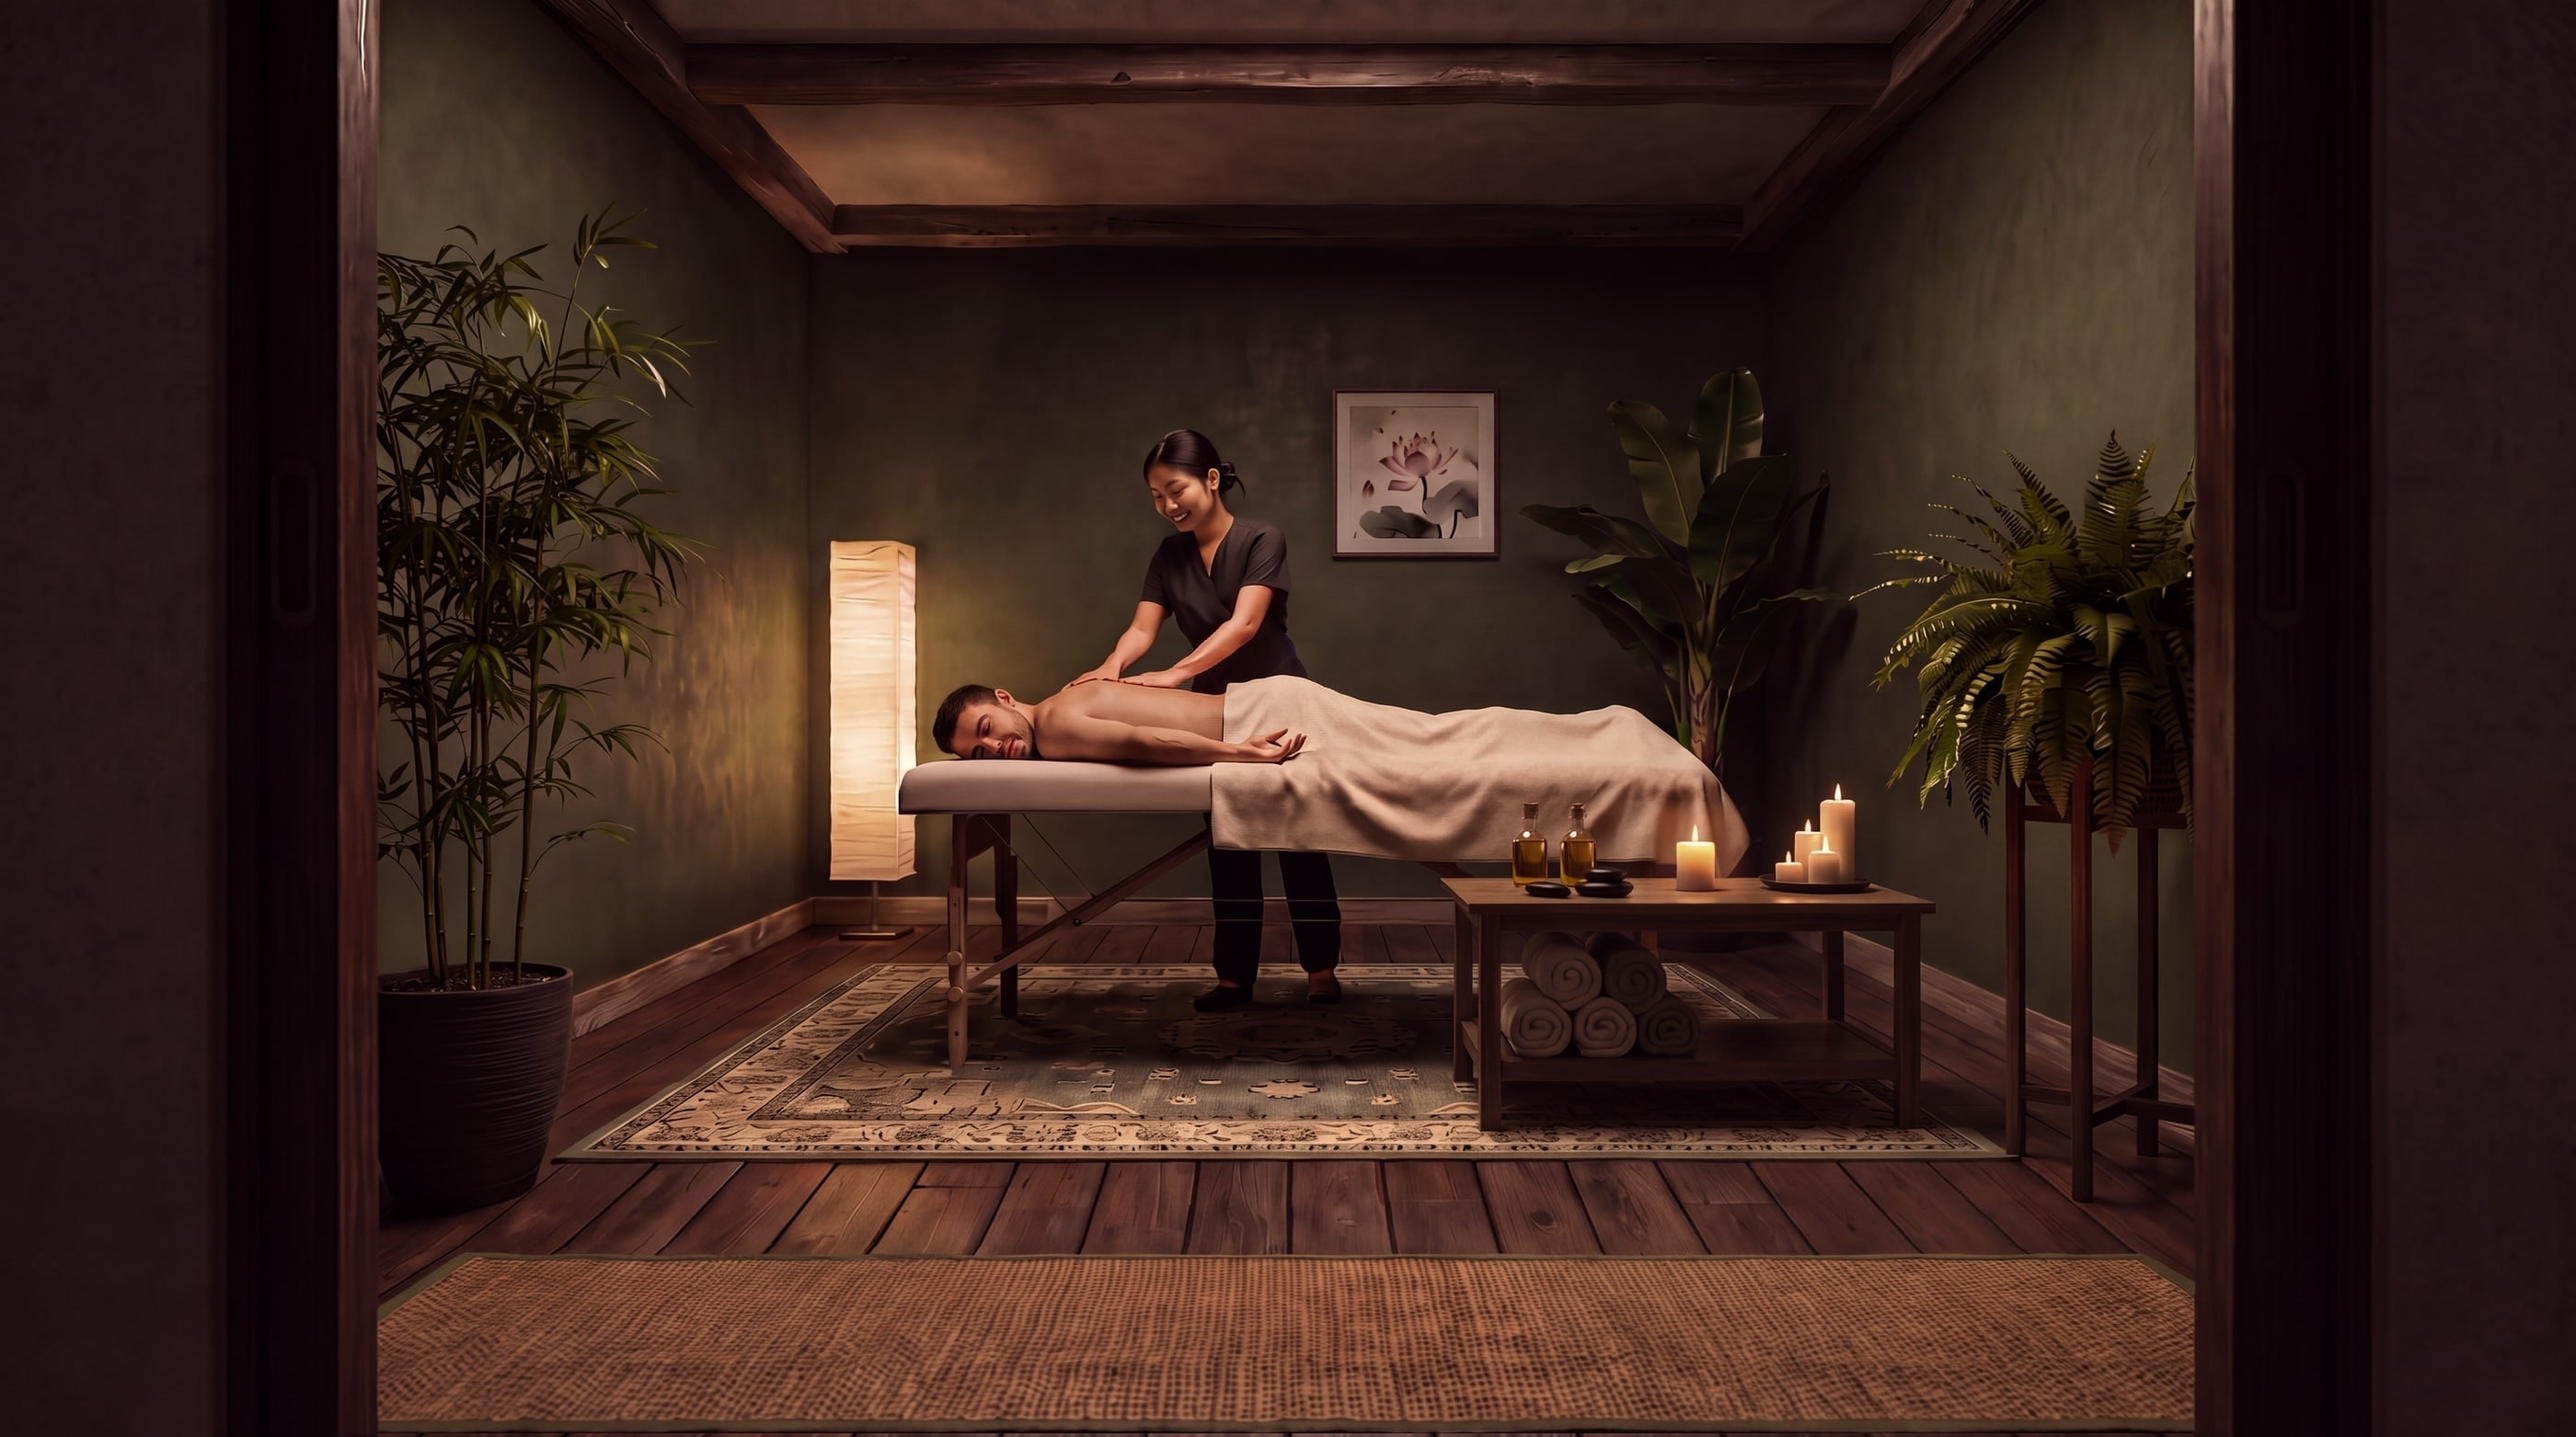
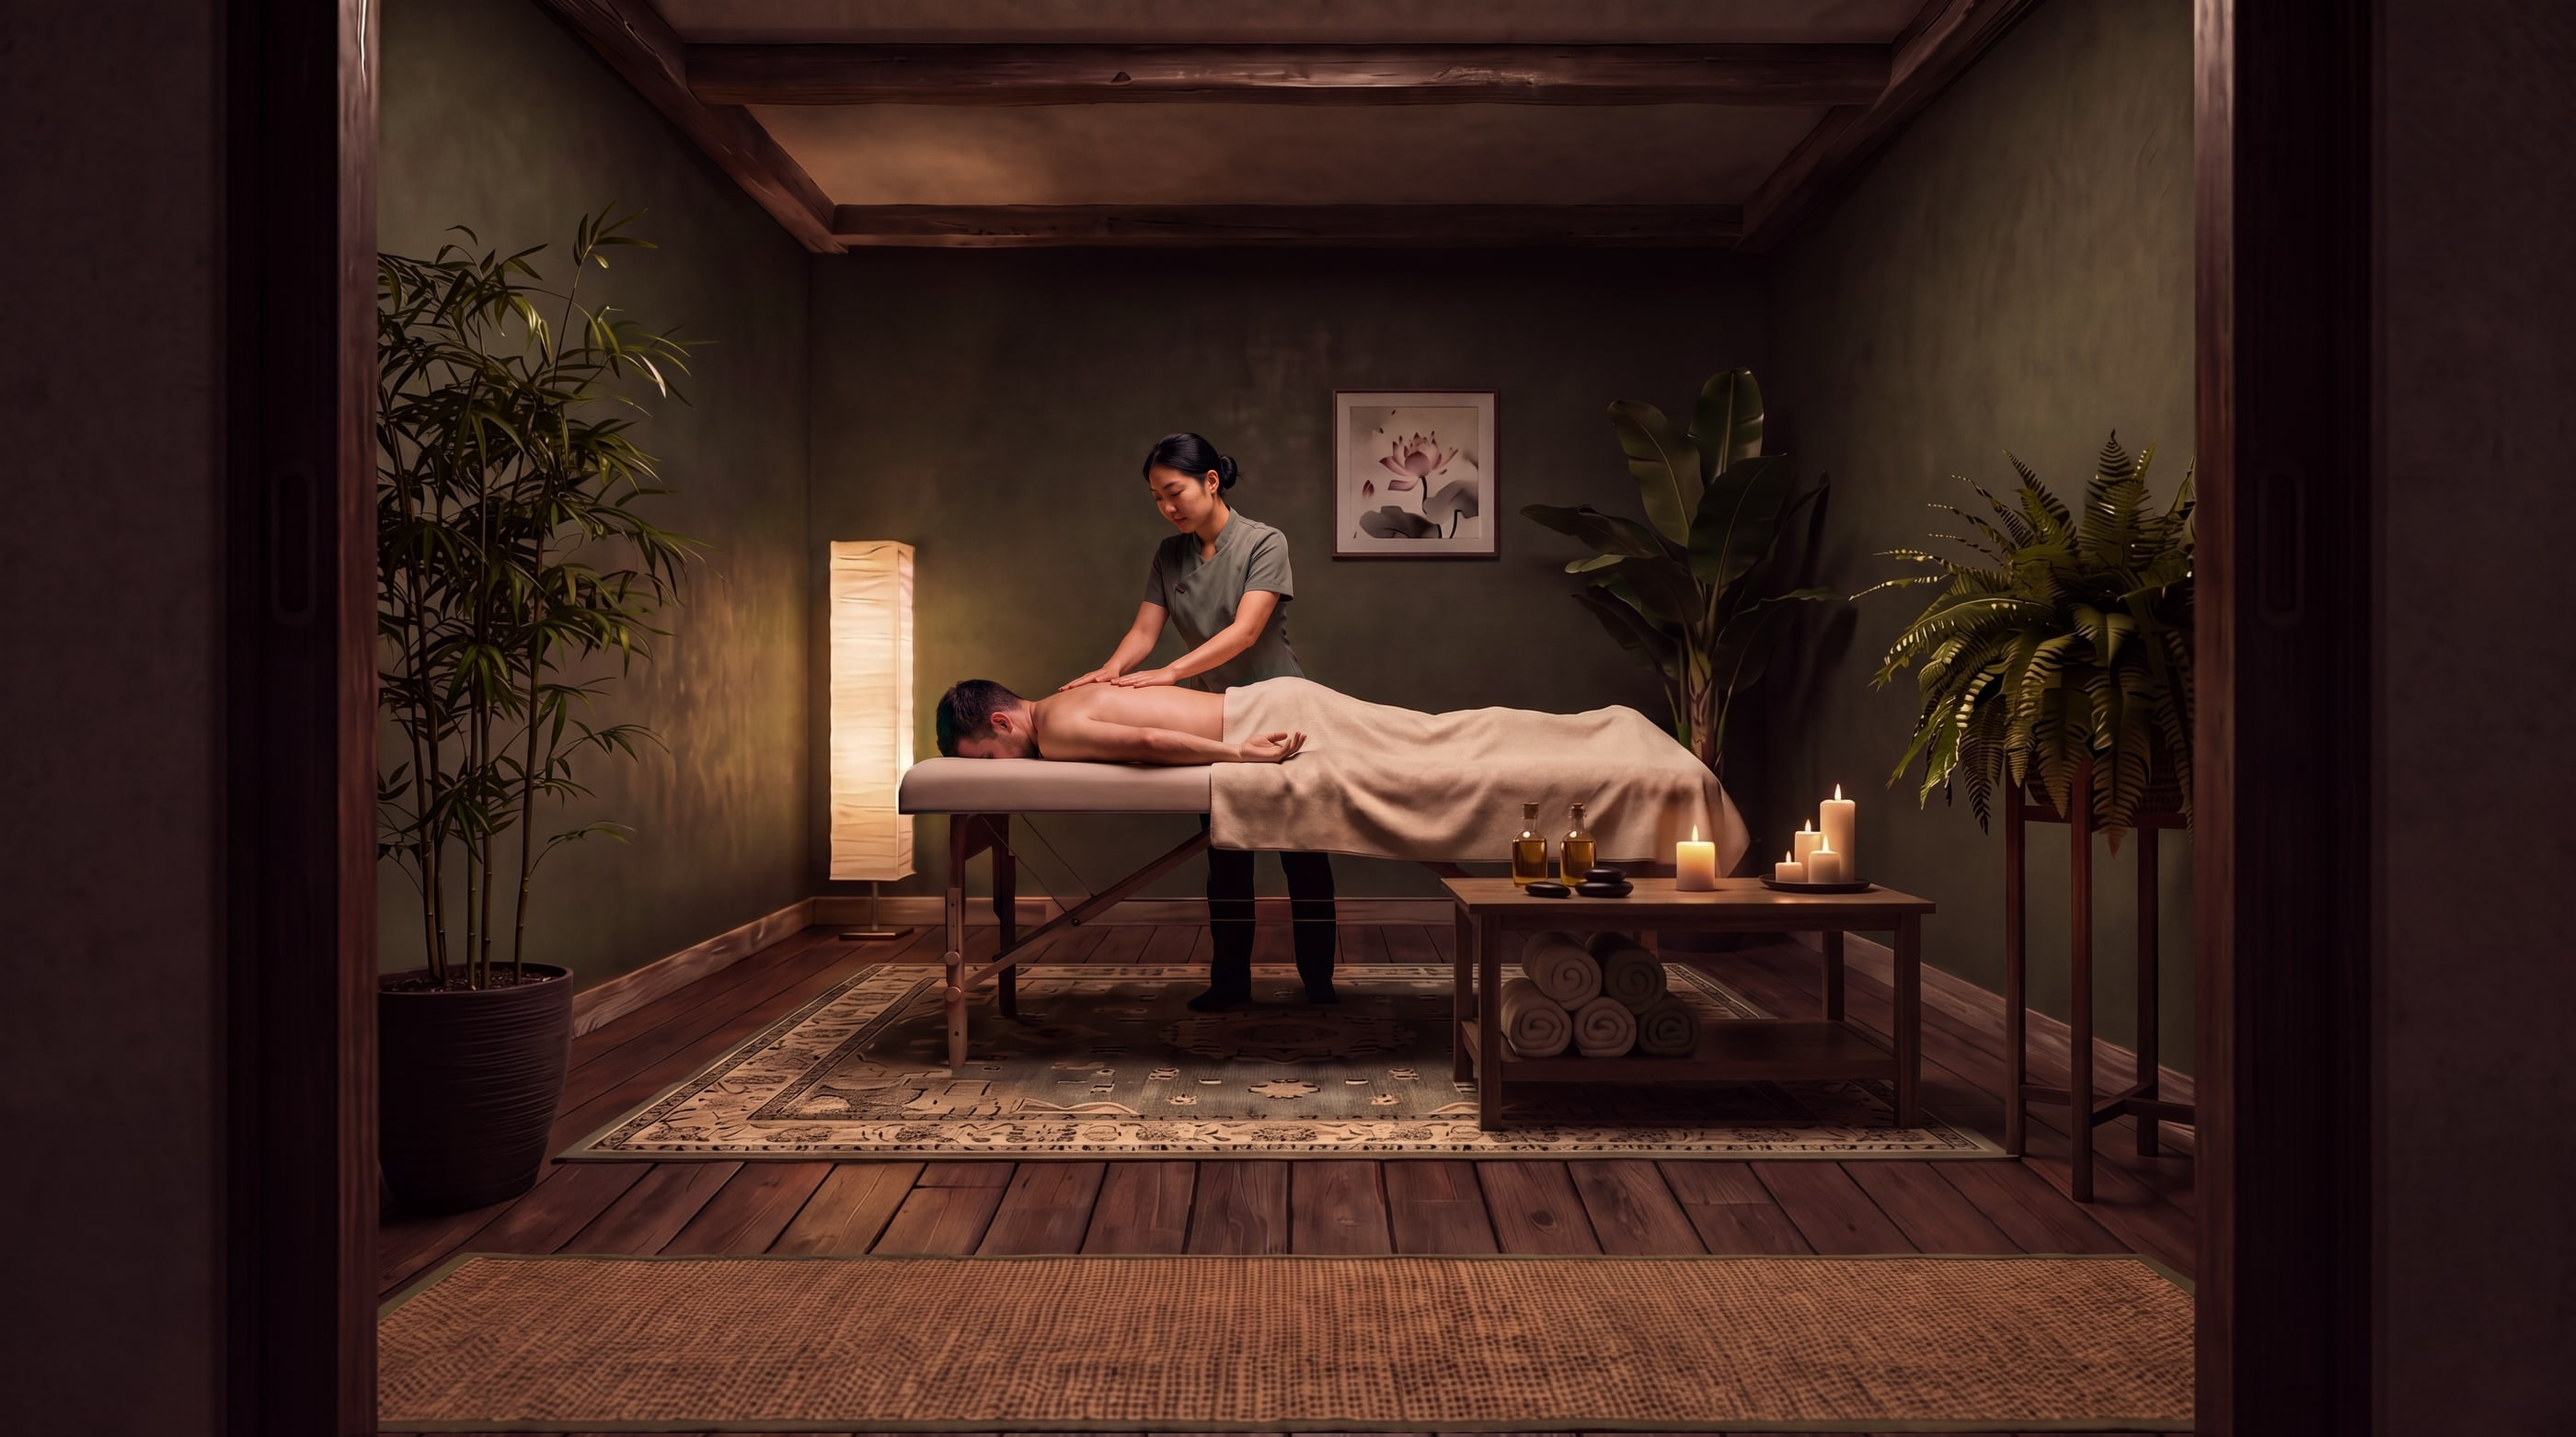
Doorway room: new, more natural therapist and client; room unchanged
Only the people were regenerated (from a crop) and blended back into the original
photo. The old version is kept in archive/photos.

diff --git a/docs/CREDITS.md b/docs/CREDITS.md
@@ -74,4 +74,4 @@ AI-generated tracks were excluded on purpose: a brand sound should be human-made
 | rain-lotus-pads.webp, rain-lotus-flower.webp (contact, formerly the rain pause: a white lotus on its lily pads, cut out from a magenta backdrop, as two layers: the whole lotus behind the card, the flower alone in front of it) | Generated for Sia with OpenArt (Nano Banana Pro), Plus plan with commercial use rights, 2026-10-28 |
 | wall-plaster.jpg (doorway wall: moss lime plaster, darkened and mirrored into a seamless tile) | Generated for Sia with OpenArt (Nano Banana 2), Plus plan with commercial use rights, 2026-10-26 |
 | garden-bamboo-a.webp, garden-bamboo-b.webp (courtyard tall airy bamboo in round carved stone pots, cut out) | Generated for Sia with OpenArt (Nano Banana 2), Plus plan with commercial use rights, 2026-10-26 |
-| spa-room.jpg (view through the doorway: candlelit spa treatment room seen from the threshold, with rug, door mat and lotus painting; gentle low-light grade) | Generated for Sia with OpenArt (Nano Banana Pro), Plus plan with commercial use rights, 2026-10-27 |
+| spa-room.jpg (view through the doorway: candlelit spa treatment room seen from the threshold, with rug, door mat and lotus painting; gentle low-light grade; therapist and client re-done 2026-11-01 — only the people were regenerated, from a crop, and blended back into the unchanged room) | Generated for Sia with OpenArt (Nano Banana Pro), Plus plan with commercial use rights, 2026-10-27 (people 2026-11-01) |
